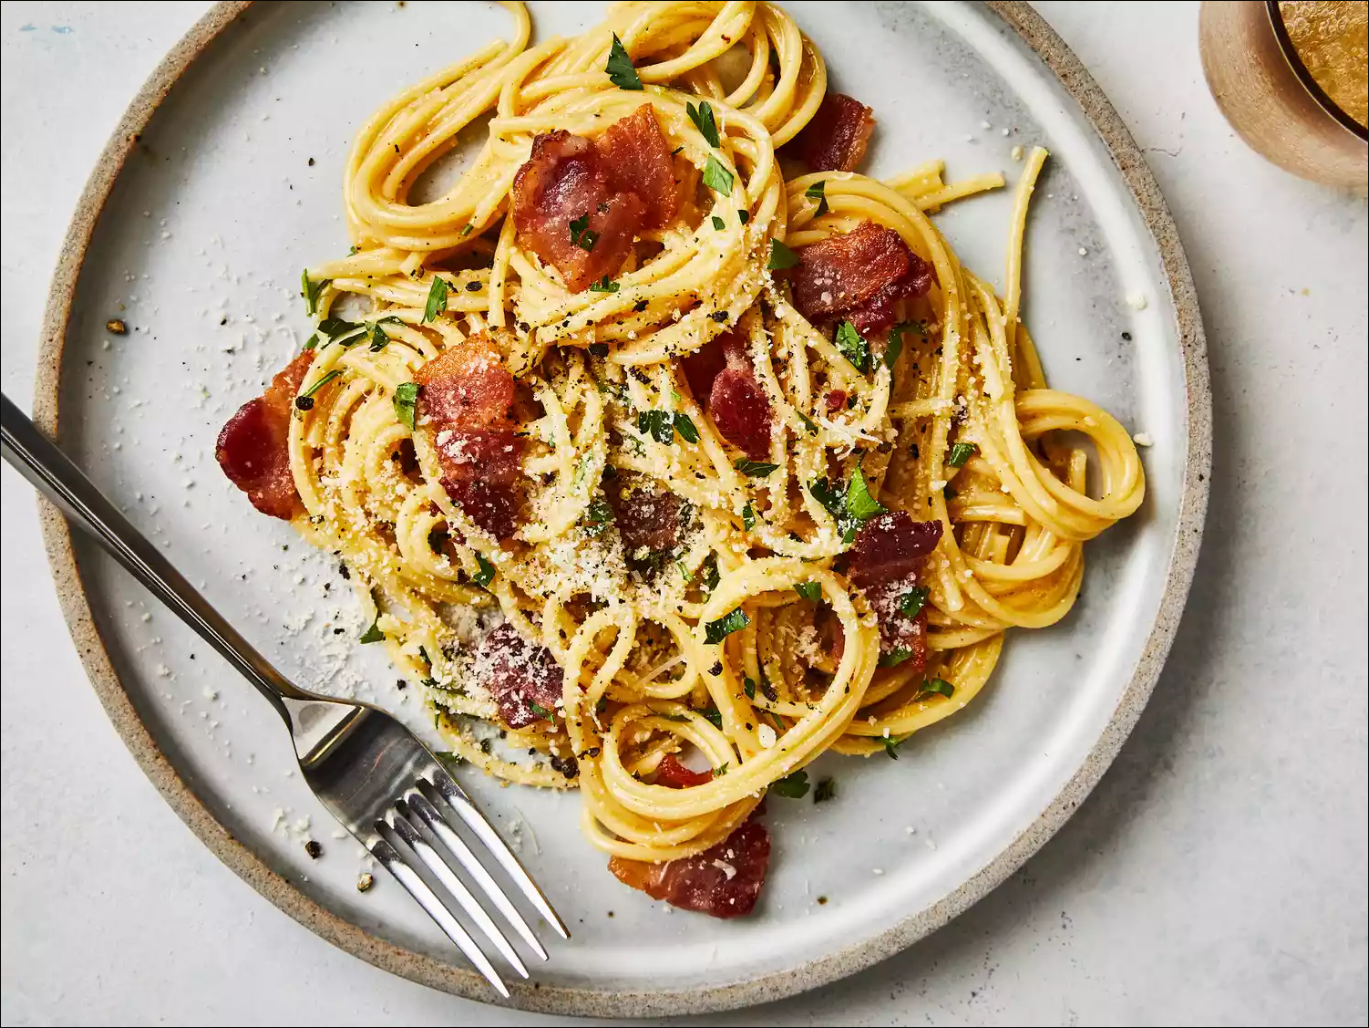
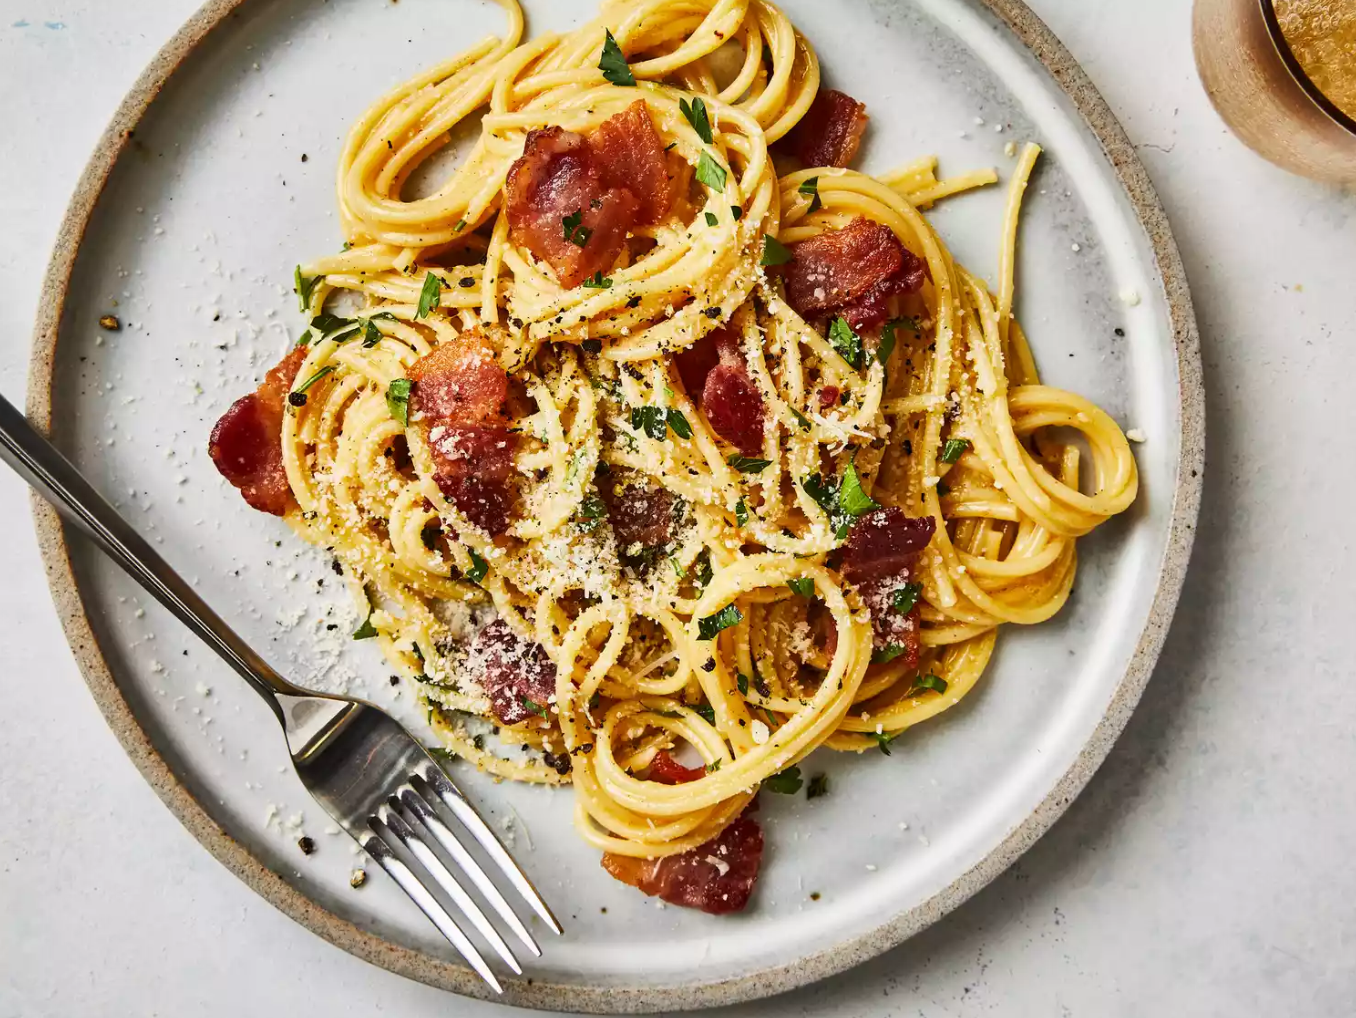
Change spaghetti image

diff --git a/recipes/recipe.css b/recipes/recipe.css
@@ -32,7 +32,7 @@
 /* Recipe Image */
 .recipe-image {
     width: 100%;
-    max-height: 400px;
+    max-height: 600px;
     object-fit: cover;
     border-radius: 12px;
     margin-bottom: 30px;
